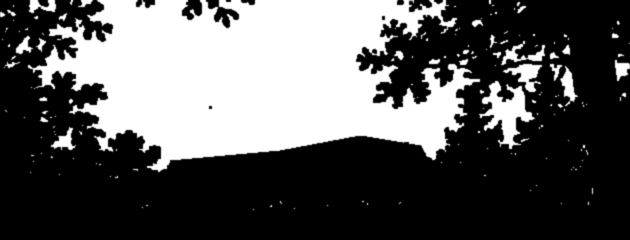
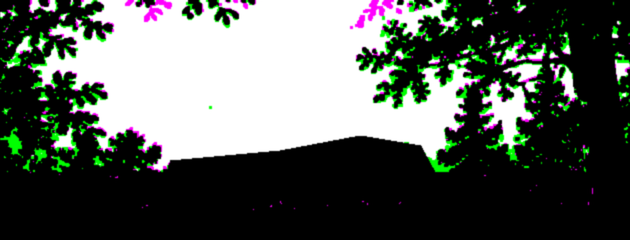
Woodland: defects from the directors' evaluation of the film
- The leaves are heard where they are seen to sway: a gust starts on the left with the near oak
  and travels right with its front. It had been heard on the right all along, ahead of what was
  seen. The pan goes across only as far as the gust is heard.
- The opening-out is eased once and runs over ~1.6 s (8.2–9.8 s). Eased twice, nine tenths of it
  fell in two thirds of a second.
- The overlay's graphite edge is light; it printed as a sooty speckle.
- No motes in the shade: one there, catching the sun on a dark ground, glowed cyan-white.
- The evening sky drifts behind the dusk painting's own leaves, through a matte cut from that
  painting (the G channel of the same image). Through the afternoon's matte it showed leaf-shaped
  halos.

Claude-Session: https://claude.ai/code/session_01KQPjgRSBPiZRUxNQL4z1Q2

diff --git a/src/world/living/materials.ts b/src/world/living/materials.ts
@@ -257,7 +257,10 @@ const FRAG = /* glsl */ `
       vec2 sq = (at - uCloudBox.xy) / uCloudBox.zw;
       float sky = 0.0;
       if (uCloudBox.z > 0.0 && all(greaterThan(sq, vec2(0.0))) && all(lessThan(sq, vec2(1.0)))) {
-        sky = texture2D(uSkyMask, sq).r;
+        // (Its matte: R the afternoon's, G the evening's: their leaves aren't quite in the same
+        // places, and through the afternoon's the evening sky showed leaf-shaped halos.)
+        vec2 mm = texture2D(uSkyMask, sq).rg;
+        sky = uAfter > 0.5 ? mm.g : mm.r;
         vec2 cq = vec2(uCloud.x + (1.0 - uCloud.x) * ((uv - uCloudBox.xy) / uCloudBox.zw).x - uCloud.y, sq.y);
         vec3 cl = uAfter > 0.5 ? texture2D(uCloudsAfter, cq).rgb : texture2D(uClouds, cq).rgb;
         c = mix(c, cl, sky);
@@ -316,7 +319,9 @@ const FRAG = /* glsl */ `
         vec4 m = texture2D(uMaps, vScene);
         float bg = dot((uAfter > 0.5 ? texture2D(uAfterPlate, vScene) : texture2D(uPlate, vScene)).rgb, vec3(0.3, 0.59, 0.11));
         float sun = uAfter > 0.5 ? 0.35 : smoothstep(0.05, 0.4, m.a);
-        float lit = (0.3 + 0.7 * sun) * (1.0 - 0.5 * bg);
+        // (None in the shade: one there, catching the sun on a dark ground, glowed cyan-white, a
+        // sparkle: the directors' film review, 2026-10-18.)
+        float lit = sun * (1.0 - 0.5 * bg);
         float a = exp(-r * r * 5.0) * vMote.y * lit * vMote.z * 0.9;
         gl_FragColor = vec4(vec3(1.0, 0.95, 0.8) * a, 0.0);
       } else if (vMote.x < 1.5) {

diff --git a/src/memory/synthWoods.ts b/src/memory/synthWoods.ts
@@ -7,14 +7,17 @@ import { WOODLAND } from './living/woodland';
 export const heard = (t: number) => gustSway(t + 0.4, 0.5, WOODLAND.gusts);
 
 /**
- * Where the leaves are heard across (−1 left .. 1 right): from the left as a gust's front comes
- * in, toward the right as it passes, back to the middle as it dies away (by its strength: never a
- * jump; QA, 2026-10-17).
+ * Where the leaves are heard across (−1 left .. 1 right): where they are seen to sway, the
+ * canopy's left against its right, so a gust starts on the left with the near oak and travels
+ * right with its front (heard on the right all along, it was ahead of what was seen: cinematic
+ * review, 2026-10-18); back to the middle as it dies away (by its strength: never a jump; QA).
  */
 export function leavesPan(t: number): number {
-  const gs = heard(t);
-  const k = Math.min(1, gs.strength / 0.15);
-  return Math.min(1, Math.max(-1, gs.front * 1.6 - 0.8)) * k * k * (3 - 2 * k);
+  const l = gustSway(t + 0.4, 0.2, WOODLAND.gusts).strength, r = gustSway(t + 0.4, 0.8, WOODLAND.gusts).strength;
+  if (l + r < 1e-6) return 0;
+  // (Across only as far as the gust is heard: not hard over while it is barely there.)
+  const k = Math.min(1, heard(t).strength / 0.35);
+  return 0.8 * ((r - l) / (l + r)) * k * k * (3 - 2 * k);
 }
 
 /**

diff --git a/src/world/living/Immersion.ts b/src/world/living/Immersion.ts
@@ -77,7 +77,8 @@ const ImmersionShader = {
       // it opens out), its edge into the plaster.
       vec3 c = mix(room.rgb, p, colour * uShow);
       // The graphite the light finds first, just inside the colour's edge.
-      c *= 1.0 - g.a * lead * uShow * 0.75;
+      // (Light: stronger, it printed as a sooty speckle along the edge: directors' film review.)
+      c *= 1.0 - g.a * lead * uShow * 0.3;
       // The sprig passing close to the lens (premultiplied; sharp: a leaf, not a smudge).
       if (uLeafShow > 0.0) {
         vec2 d = (vUv - uLeaf.xy) * vec2(uScreen, 1.0) / uLeaf.z;
@@ -135,7 +136,9 @@ export class Immersion {
     u.uAspect.value = o.paint;
     (u.uZoom.value as THREE.Vector3).copy(o.zoom);
     (u.uView.value as THREE.Vector4).copy(o.view);
-    const k = smoothstep(o.immerse);
+    // (`immerse` arrives eased already: eased again, nine tenths of the opening out fell in two
+    // thirds of a second, the threshold's briefest phase: cinematic review, 2026-10-18.)
+    const k = clamp01(o.immerse);
     const full = coverQuad(o.aspect, o.paint, o.focus);
     const from = o.wall ?? full.map((p) => p.clone().sub(new THREE.Vector2(0.5, 0.5)).multiplyScalar(0.3).add(new THREE.Vector2(0.5, 0.5)));
     for (let i = 0; i < 4; i++) this.quad[i].copy(from[i]).lerp(full[i], k);

diff --git a/src/world/living/Inside.ts b/src/world/living/Inside.ts
@@ -211,7 +211,8 @@ export class Inside {
     // there is: the light grows, then the frame. Cinematic review, 2026-10-17.)
     const spread = smooth(0, 0.5, e);
     const show = o.reduced ? smooth(0.4, 1, e) : smooth(0.3, 0.7, e);
-    const settle = o.reduced ? 1 : smooth(0.68, 1, e);
+    // (Opening out over the last 45% of the way in, ~1.6 s, the painting's light still mostly ahead of it.)
+    const settle = o.reduced ? 1 : smooth(0.55, 1, e);
     this.window.spread = spread;
 
     // The whole painting, where it is on its wall.

diff --git a/tests/living-memory.test.ts b/tests/living-memory.test.ts
@@ -152,6 +152,9 @@ describe('the air, which moves everything (one wind, seekable)', () => {
     }
     expect(most).toBeLessThanOrEqual(0.02);
     expect(Math.abs(leavesPan(G[0].at - 1))).toBe(0);
+    // It starts on the left with the near oak and goes right with its front.
+    expect(leavesPan(G[0].at + 0.4)).toBeLessThan(-0.3);
+    expect(leavesPan(G[0].at + 1.5)).toBeGreaterThan(0.3);
   });
   it("the sound's times are the picture's", () => {
     expect(TIMES.cut).toBe(CUT_AT);

diff --git a/scripts/cut-woodland.py b/scripts/cut-woodland.py
@@ -576,6 +576,38 @@ def sky_mask(day):
     return blur(arr(im), 0.6)
 
 
+def sky_mask_dusk(dusk):
+    """The same in the dusk painting, whose leaves aren't quite where the afternoon's are (laid in
+    through the afternoon's matte, the evening sky showed leaf-shaped halos where they differ: the
+    directors' film review, 2026-10-18): its leaves dark, or yellow-brown with little blue; its sky
+    pink, orange and purple; its mountain a dark blue."""
+    d = arr(dusk)
+    r, g, b = d[..., 0], d[..., 1], d[..., 2]
+    lum = 0.3 * r + 0.59 * g + 0.11 * b
+    y = np.mgrid[0:H, 0:W][0]
+    leaf = ((b < g - 0.05) & (lum < 0.42)) | (lum < 0.24)
+    # (Above the ridge, as the afternoon's: below it, the glow between the far treetops isn't sky
+    # that drifts.)
+    m = ~leaf & (lum > 0.28) & (y < 172) & (poly_mask((W, H), [MOUNTAIN]) < 0.5)
+    x0, y0, x1, y1 = CLOUD_BOX
+    box = np.zeros((H, W), bool)
+    box[y0:y1, x0:x1] = True
+    m = (m & box).astype(np.float32)
+    im = img(m).filter(ImageFilter.MaxFilter(3)).filter(ImageFilter.MinFilter(3))
+    return blur(arr(im), 0.6)
+
+
+def save_skies(day, dusk, a):
+    """The sky's matte (R the afternoon's, G the evening's) and the two skies that drift behind
+    the leaves, each filled under its own painting's leaves."""
+    smask, dmask = sky_mask(day), sky_mask_dusk(dusk)
+    x0, y0, x1, y1 = CLOUD_BOX
+    save(np.dstack([smask[y0:y1, x0:x1], dmask[y0:y1, x0:x1], smask[y0:y1, x0:x1]]), os.path.join(a, 'sky-mask.webp'), {'': W}, lossless=True)
+    save(clouds(arr(day), smask), os.path.join(a, 'clouds.webp'), {'': W}, q=90)
+    save(clouds(arr(dusk), dmask), os.path.join(a, 'clouds-after.webp'), {'': W}, q=90)
+    return smask
+
+
 def clouds(plate_rgb, mask):
     """The sky in the gap as its own layer, filled where the leaves and mountain hide it (so it can
     drift behind them) and painted on CLOUD_PAD px further left (where it drifts in from)."""
@@ -716,6 +748,10 @@ def main():
     # The dusk plate sits ~2 px left of the day plate (gradient correlation, best at +2).
     dusk = dusk.transform(dusk.size, Image.AFFINE, (1, 0, -2, 0, 1, 0), resample=Image.BICUBIC)
 
+    if sys.argv[1:] == ['--skies']:
+        # Only the skies and their matte (everything else as it was cut).
+        save_skies(day, dusk, os.path.join(OUT, 'afternoon'))
+        return
     maps, sky, lum = plate_maps(day)
     fig, arm, sleeve, straight, fa = figures(sheet, day)
     th, tw = fig.shape[:2]
@@ -748,12 +784,8 @@ def main():
     heads, fmask = flower_heads(day)
     save(under_flowers(arr(day), fmask), os.path.join(a, 'plate.webp'), LIVE, q=92)
     save(np.dstack([arr(day) * fmask[..., None], fmask]), os.path.join(a, 'flowers.webp'), LIVE, q=92)
-    smask = sky_mask(day)
     save(sprig(day), os.path.join(a, 'leaves.webp'), {'': W}, q=92)
-    x0, y0, x1, y1 = CLOUD_BOX
-    save(np.dstack([smask[y0:y1, x0:x1]] * 3), os.path.join(a, 'sky-mask.webp'), {'': W}, lossless=True)
-    save(clouds(arr(day), smask), os.path.join(a, 'clouds.webp'), {'': W}, q=90)
-    save(clouds(arr(dusk), smask), os.path.join(a, 'clouds-after.webp'), {'': W}, q=90)
+    smask = save_skies(day, dusk, a)
     save(maps.clip(0, 1), os.path.join(a, 'maps.webp'), {'': W // 4}, lossless=True)
     # Atlases (rows top to bottom): the body, her forearm; her lids shut, half, and her sleeve.
     save(stack([fig, arm]), os.path.join(a, 'figures.webp'), LIVE, q=92)
